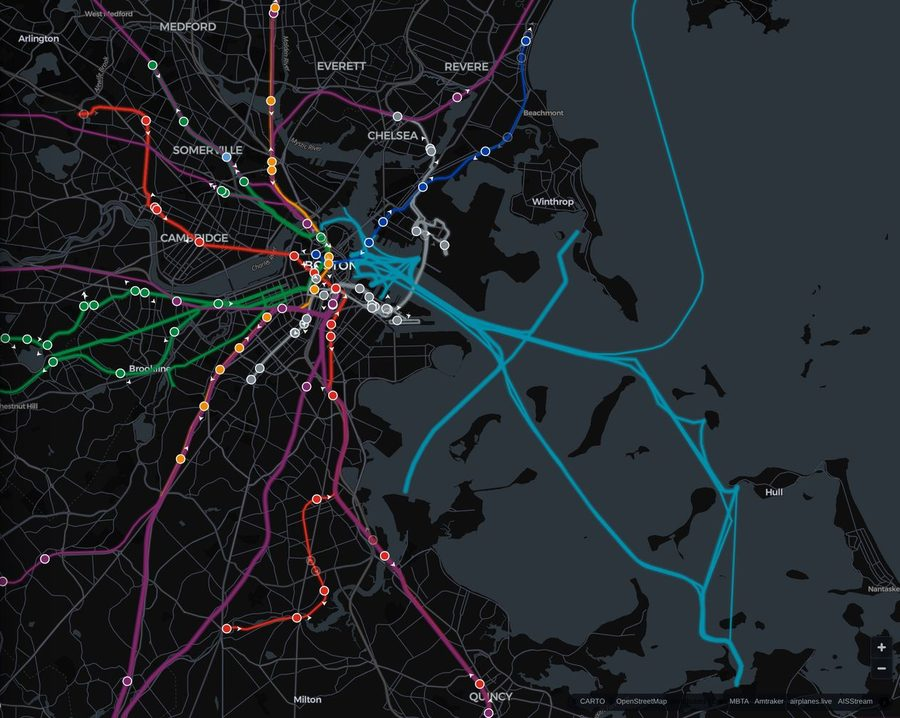
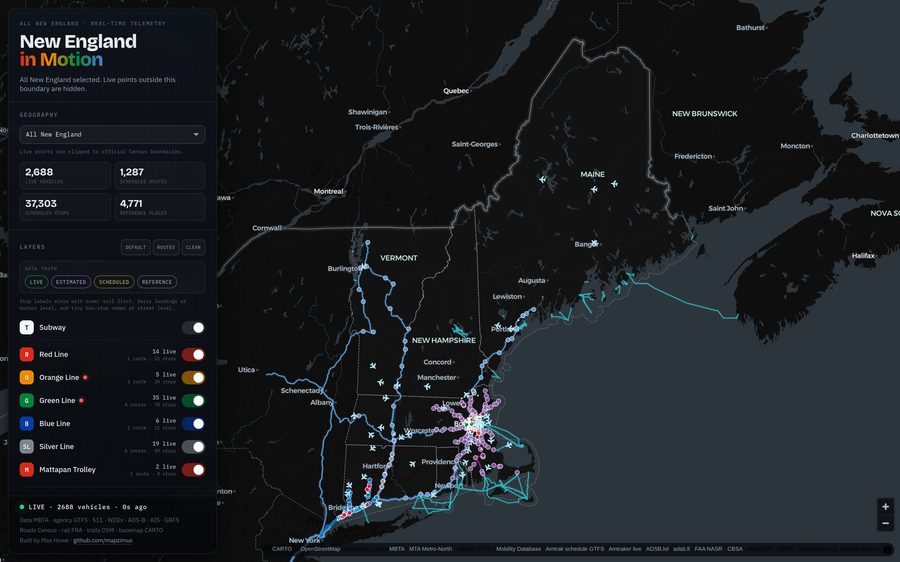
Replace New England in Motion figures with live region captures
The card and figures were cropped Boston-view stills left over from the
Boston in Motion era, kept only because the live site was unreachable
when the entry was rewritten. They showed none of the expansion.

Captured from the running map: "All New England" (2,688 live vehicles
against 1,287 scheduled routes and 37,303 stops), Maine (140 scheduled
routes carrying 11 live vehicles — the rural-coverage case the project
is careful about), and Connecticut (Metro-North branches interpolated
from MTA trip updates and labeled estimated, plus the Long Island Sound
ferries). The card thumbnail and its AVIF/WebP variants are regenerated
from the region-wide view.

Claude-Session: https://claude.ai/code/session_011a16XpVQdFytFADgFKgiTC

diff --git a/assets/portfolio/js/data/projects.js b/assets/portfolio/js/data/projects.js
@@ -1293,12 +1293,16 @@ window.V2_DATA.projects = [
     ],
     "gallery": [
       {
-        "src": "images/projects/new-england-in-motion/boston-live.jpg",
-        "caption": "The Boston view — MBTA lines, ferries, Amtrak, and aircraft, the region the map still opens on"
+        "src": "images/projects/new-england-in-motion/all-new-england.jpg",
+        "caption": "All New England — 2,688 live vehicles against 1,287 scheduled routes and 37,303 stops, clipped to Census boundaries"
       },
       {
-        "src": "images/projects/new-england-in-motion/boston-harbor.jpg",
-        "caption": "Rapid transit, commuter rail, and harbor routes over Boston Harbor at closer zoom"
+        "src": "images/projects/new-england-in-motion/maine.jpg",
+        "caption": "Maine — 140 scheduled routes carrying 11 live vehicles: rural service stays on the map instead of looking dead"
+      },
+      {
+        "src": "images/projects/new-england-in-motion/connecticut.jpg",
+        "caption": "Connecticut — Metro-North branches drawn from MTA trip updates and labeled estimated, with Long Island Sound ferries"
       }
     ]
   },

diff --git a/src/portfolio/js/data/projects.js b/src/portfolio/js/data/projects.js
@@ -1293,12 +1293,16 @@ window.V2_DATA.projects = [
     ],
     "gallery": [
       {
-        "src": "images/projects/new-england-in-motion/boston-live.jpg",
-        "caption": "The Boston view — MBTA lines, ferries, Amtrak, and aircraft, the region the map still opens on"
+        "src": "images/projects/new-england-in-motion/all-new-england.jpg",
+        "caption": "All New England — 2,688 live vehicles against 1,287 scheduled routes and 37,303 stops, clipped to Census boundaries"
       },
       {
-        "src": "images/projects/new-england-in-motion/boston-harbor.jpg",
-        "caption": "Rapid transit, commuter rail, and harbor routes over Boston Harbor at closer zoom"
+        "src": "images/projects/new-england-in-motion/maine.jpg",
+        "caption": "Maine — 140 scheduled routes carrying 11 live vehicles: rural service stays on the map instead of looking dead"
+      },
+      {
+        "src": "images/projects/new-england-in-motion/connecticut.jpg",
+        "caption": "Connecticut — Metro-North branches drawn from MTA trip updates and labeled estimated, with Long Island Sound ferries"
       }
     ]
   },
